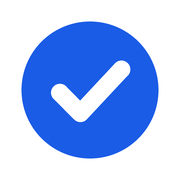
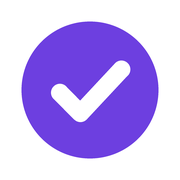
전체 색상 블루 → 보라 계열, 파비콘·OG(v2) 재생성

diff --git a/templates/index.html b/templates/index.html
@@ -16,7 +16,7 @@
 <meta property="og:title" content="젠틀페이 — 카톡 한번으로 끝! 내 비상금 한도 바로찾기">
 <meta property="og:description" content="{{ SITE_DESCRIPTION }}">
 <meta property="og:url" content="{{ SITE_URL }}/">
-<meta property="og:image" content="{{ SITE_URL }}/static/img/og-gentlepay.png">
+<meta property="og:image" content="{{ SITE_URL }}/static/img/og-gentlepay-v2.png">
 <meta property="og:image:width" content="1200">
 <meta property="og:image:height" content="630">
 <meta property="og:locale" content="ko_KR">
@@ -47,9 +47,9 @@ ChannelIO('boot',{pluginKey:'{{ CHANNELTALK_PLUGIN_KEY }}',hideChannelButtonOnBo
 {% endif %}
 <style>
 :root{
-  --main:#2F7BFF; --deep:#1A5CE6; --pale:#EAF2FF;
-  --ink:#191919; --gray:#767676; --gray-l:#F5F8FD; --line:#E6ECF5;
-  --green:#12B76A; --navy:#0A2463;
+  --main:#8A5CF5; --deep:#6D3FE0; --pale:#F1EBFF;
+  --ink:#191919; --gray:#767676; --gray-l:#F8F6FD; --line:#ECE6F5;
+  --green:#12B76A; --navy:#2A1260;
 }
 *{margin:0;padding:0;box-sizing:border-box}
 html{scroll-behavior:smooth}
@@ -87,7 +87,7 @@ section{padding:90px 0;text-align:center}
 .gc .gc-rt{position:absolute;left:18px;bottom:38px;font-size:20px;font-weight:900;letter-spacing:-0.02em;font-variant-numeric:tabular-nums}
 .gc .gc-rt small{display:block;font-size:10.5px;font-weight:700;opacity:.75;letter-spacing:.04em}
 .g-green{background:linear-gradient(135deg,#00B274,#007A50)}
-.g-blue{background:linear-gradient(135deg,#4A7DF0,#2648A8)}
+.g-blue{background:linear-gradient(135deg,#9A6BF2,#4A2A9E)}
 .g-orange{background:linear-gradient(135deg,#FF9A4D,#F2612E)}
 .g-violet{background:linear-gradient(135deg,#7B57EC,#4A2FB8)}
 .g-pink{background:linear-gradient(135deg,#FF6D96,#E0356B)}
@@ -101,7 +101,7 @@ header.scrolled{box-shadow:0 4px 18px rgba(0,0,0,.06)}
 .nav{max-width:1040px;margin:0 auto;padding:0 20px;display:flex;align-items:center;justify-content:space-between;height:60px}
 .logo{display:flex;align-items:center;gap:8px;font-size:18px;font-weight:900;letter-spacing:-0.02em}
 .logo .lg{height:28px}
-.lg{display:block;width:auto;--mk-d:#0B2470;--mk-on:#fff;--m2:#1A5CE6}
+.lg{display:block;width:auto;--mk-d:#2A1260;--mk-on:#fff;--m2:#6D3FE0}
 @media(max-width:600px){.logo .lg{height:24px}}
 .logo b{color:var(--navy)}.logo b span{color:var(--main)}
 .logo small{white-space:nowrap;font-size:13px;font-weight:700;color:var(--gray)}
@@ -111,7 +111,7 @@ header.scrolled{box-shadow:0 4px 18px rgba(0,0,0,.06)}
 
 /* hero — GENTLE PAY 로고 + 파란 물결 */
 .hero{position:relative;overflow:hidden;padding:36px 20px 120px;text-align:center;background:var(--hero-bg)}
-.hero::before{content:"";position:absolute;left:50%;top:30%;width:640px;height:640px;transform:translate(-50%,-50%);border-radius:50%;background:radial-gradient(circle,rgba(47,123,255,.14),transparent 65%);pointer-events:none}
+.hero::before{content:"";position:absolute;left:50%;top:30%;width:640px;height:640px;transform:translate(-50%,-50%);border-radius:50%;background:radial-gradient(circle,rgba(138,92,245,.14),transparent 65%);pointer-events:none}
 .hero-logo{position:relative;padding:18px 0 6px;animation:rise .8s ease both}
 .hero-logo .lg{height:clamp(64px,14vw,120px);margin:0 auto}
 .hero-logo .tg{margin-top:12px;font-size:clamp(15px,3.2vw,22px);font-weight:500;letter-spacing:.12em;color:var(--hero-tx)}
@@ -123,7 +123,7 @@ header.scrolled{box-shadow:0 4px 18px rgba(0,0,0,.06)}
 .hero .ch-btn{margin-top:26px;animation:rise .7s ease .3s both}
 /* 한도 카드 3종 */
 .limits{position:relative;display:grid;grid-template-columns:repeat(3,1fr);gap:clamp(8px,2vw,16px);max-width:780px;margin:26px auto 0;animation:rise .7s ease .28s both}
-.lim{text-align:center;display:flex;flex-direction:column;background:#fff;border:1px solid var(--line,#E6ECF5);border-radius:14px;overflow:hidden;box-shadow:0 8px 22px rgba(15,35,90,.07)}
+.lim{text-align:center;display:flex;flex-direction:column;background:#fff;border:1px solid var(--line,#ECE6F5);border-radius:14px;overflow:hidden;box-shadow:0 8px 22px rgba(42,18,96,.07)}
 .lim img{display:block;width:96%;max-width:190px;height:auto;margin:6px auto 0}
 .lim .k{margin-top:4px;font-size:clamp(12px,2.8vw,17px);font-weight:600;color:#333;letter-spacing:-0.03em}
 .lim .v{margin:2px 0 14px;font-size:clamp(20px,5.6vw,40px);font-weight:900;letter-spacing:-0.05em;line-height:1.15;color:var(--deep);white-space:nowrap}
@@ -133,7 +133,7 @@ header.scrolled{box-shadow:0 4px 18px rgba(0,0,0,.06)}
 .hero .note b{color:#5A6478}
 .hero .wave{position:absolute;left:0;bottom:-1px;width:100%;height:110px;pointer-events:none}
 /* 채널톡 상담 버튼 (히어로·팝업 공용) */
-.ch-btn{display:inline-flex;align-items:center;gap:14px;background:linear-gradient(135deg,var(--main),var(--deep));color:#fff;font-size:16px;font-weight:800;padding:16px 30px;border-radius:999px;box-shadow:0 12px 28px rgba(26,92,230,.35);transition:transform .15s;position:relative;white-space:nowrap}
+.ch-btn{display:inline-flex;align-items:center;gap:14px;background:linear-gradient(135deg,var(--main),var(--deep));color:#fff;font-size:16px;font-weight:800;padding:16px 30px;border-radius:999px;box-shadow:0 12px 28px rgba(109,63,224,.35);transition:transform .15s;position:relative;white-space:nowrap}
 .ch-btn:hover{transform:translateY(-2px)}
 .ch-btn svg{width:22px;height:22px;flex:none}
 .ch-btn i{font-style:normal;font-weight:900;padding-left:14px;border-left:1px solid rgba(255,255,255,.4)}
@@ -148,7 +148,7 @@ header.scrolled{box-shadow:0 4px 18px rgba(0,0,0,.06)}
 .stat .em b{font-weight:800}
 .stat .em p{color:var(--gray);margin-top:4px}
 .stat .chev{margin:26px auto 0;width:26px;color:#C9C9C9;animation:bounceDown 1.6s ease-in-out infinite}
-.btn-big{display:inline-flex;align-items:center;justify-content:center;gap:10px;margin-top:30px;background:var(--main);color:#fff;font-size:17px;font-weight:900;padding:19px 0;width:min(420px,88vw);border-radius:14px;box-shadow:0 10px 26px rgba(26,92,230,.35);transition:transform .15s}
+.btn-big{display:inline-flex;align-items:center;justify-content:center;gap:10px;margin-top:30px;background:var(--main);color:#fff;font-size:17px;font-weight:900;padding:19px 0;width:min(420px,88vw);border-radius:14px;box-shadow:0 10px 26px rgba(109,63,224,.35);transition:transform .15s}
 .btn-big:hover{transform:translateY(-2px)}
 
 /* phone mockup */
@@ -272,14 +272,14 @@ footer a{text-decoration:underline}
 .fab:hover .tip{opacity:1}
 
 /* 채널톡 안내 팝업 */
-.pop{position:fixed;inset:0;z-index:100;background:rgba(10,36,99,.55);display:flex;align-items:center;justify-content:center;padding:16px;animation:popFade .25s ease}
+.pop{position:fixed;inset:0;z-index:100;background:rgba(42,18,96,.55);display:flex;align-items:center;justify-content:center;padding:16px;animation:popFade .25s ease}
 .pop[hidden]{display:none}
 @keyframes popFade{from{opacity:0}}
 .pop-box{position:relative;zoom:.8;width:min(580px,100%);max-height:calc((100vh - 32px)/.8);overflow:auto;padding:clamp(14px,4vw,28px);border-radius:6px;
-  background:linear-gradient(rgba(255,255,255,.45) 1px,transparent 1px) 0 0/22px 22px,linear-gradient(90deg,rgba(255,255,255,.45) 1px,transparent 1px) 0 0/22px 22px,#CFE0FF;box-shadow:0 30px 80px rgba(0,0,0,.35)}
+  background:linear-gradient(rgba(255,255,255,.45) 1px,transparent 1px) 0 0/22px 22px,linear-gradient(90deg,rgba(255,255,255,.45) 1px,transparent 1px) 0 0/22px 22px,#E2D6FF;box-shadow:0 30px 80px rgba(0,0,0,.35)}
 .pop-x{position:absolute;right:8px;top:8px;z-index:2;width:42px;height:42px;border-radius:50%;background:var(--navy);color:#fff;display:flex;align-items:center;justify-content:center}
 .pop-x svg{width:20px;height:20px}
-.pop-in{cursor:pointer;--px:clamp(12px,4vw,26px);background:#FBFCFF;box-shadow:5px 5px 0 #6E8FC9;padding:0 var(--px);text-align:center}
+.pop-in{cursor:pointer;--px:clamp(12px,4vw,26px);background:#FDFBFF;box-shadow:5px 5px 0 #9B82D6;padding:0 var(--px);text-align:center}
 .checker{height:16px;margin:0 calc(-1*var(--px));background:repeating-conic-gradient(var(--deep) 0 25%,#fff 0 50%) 0 0/16px 16px}
 .pop-in h2{margin:22px 0 4px;font-size:clamp(25px,7vw,38px);font-weight:900;letter-spacing:-0.05em;line-height:1.35;color:var(--ink)}
 .pop-in h2 .b{color:var(--main)}
@@ -294,7 +294,7 @@ footer a{text-decoration:underline}
 .pop .ch-btn.sm svg{width:16px;height:16px}
 .pop .ch-btn.sm i{padding-left:9px}
 .pc-mock .btns{display:flex;gap:10px;justify-content:center;flex-wrap:wrap;margin-top:12px}
-.tel-btn{display:inline-flex;align-items:center;gap:8px;background:#fff;color:var(--navy);border:1.5px solid #B9CDF2;border-radius:999px;font-size:12.5px;font-weight:800;padding:8px 14px;white-space:nowrap}
+.tel-btn{display:inline-flex;align-items:center;gap:8px;background:#fff;color:var(--navy);border:1.5px solid #D3C3F5;border-radius:999px;font-size:12.5px;font-weight:800;padding:8px 14px;white-space:nowrap}
 .tel-btn svg{width:15px;height:15px;color:var(--main)}
 .tel-btn small{font-size:inherit;font-weight:600;color:#6A7488}
 .pop-sec>.ch-btn{margin-top:14px;font-size:14px;padding:12px 22px}
@@ -320,8 +320,8 @@ footer a{text-decoration:underline}
 @media(max-width:480px){.pop-box{width:86%}.pop-sec>.ch-btn{font-size:13px;padding:11px 16px;gap:10px}.pop-sec>.ch-btn i{padding-left:10px}.mo-mock{flex-basis:46%}.mo-mock .ch-btn i,.mo-txt .ch-btn i{display:none}.pop-in h2{margin-top:16px}.pop-sec{margin-top:26px;padding-top:26px}}
 
 /* ── 히어로·버튼 테마 토큰 ── */
-:root{--hero-bg:linear-gradient(180deg,#fff 0%,#F3F8FF 55%,var(--pale) 100%);--wm:#0B2470;--wm2:#1E6BFF;--hero-tx:#4A5568;--mock2:#C9DCFF;
-  --m1:#5AA2FF;--m2:#1A5CE6;--m3:#0A2E9E;--w1:#9CC2FF;--w2:#2F7BFF;--w3:#fff;--r-btn:999px}
+:root{--hero-bg:linear-gradient(180deg,#fff 0%,#F8F4FF 55%,var(--pale) 100%);--wm:#2A1260;--wm2:#7B4EEC;--hero-tx:#4A5568;--mock2:#DCCBFF;
+  --m1:#B08CFF;--m2:#6D3FE0;--m3:#4A1FB8;--w1:#C9B2FF;--w2:#8A5CF5;--w3:#fff;--r-btn:999px}
 .hero .wave .w1{fill:var(--w1);opacity:.35}.hero .wave .w2{fill:var(--w2);opacity:.55}.hero .wave .w3{fill:var(--w3)}
 .ch-btn,.btn-big,.pill,.p-btn{border-radius:var(--r-btn)}
 
@@ -359,8 +359,8 @@ footer a{text-decoration:underline}
     <symbol id="i-coin" viewBox="0 0 24 24" fill="none" stroke="currentColor" stroke-width="1.8" stroke-linecap="round" stroke-linejoin="round"><circle cx="12" cy="12" r="8.5"/><path d="M8 9l1.6 6L12 9l2.4 6L16 9M7.2 11.6h9.6"/></symbol>
     <!-- 후기 아바타 (플랫 일러스트 placeholder) — AI 아바타 이미지 확보 시 reviews 배열의 img 필드로 교체 -->
     <symbol id="av1" viewBox="0 0 64 64">
-      <circle cx="32" cy="32" r="32" fill="#DCE9FF"/>
-      <path d="M12 64c0-11 9-17 20-17s20 6 20 17z" fill="#4A7DF0"/>
+      <circle cx="32" cy="32" r="32" fill="#E6DBFF"/>
+      <path d="M12 64c0-11 9-17 20-17s20 6 20 17z" fill="#9A6BF2"/>
       <circle cx="32" cy="26" r="12" fill="#FFD9C4"/>
       <path d="M21.1 21a12 12 0 0 1 21.8 0z" fill="#35364A"/>
       <circle cx="27" cy="27" r="1.6" fill="#2F2F33"/><circle cx="37" cy="27" r="1.6" fill="#2F2F33"/>
